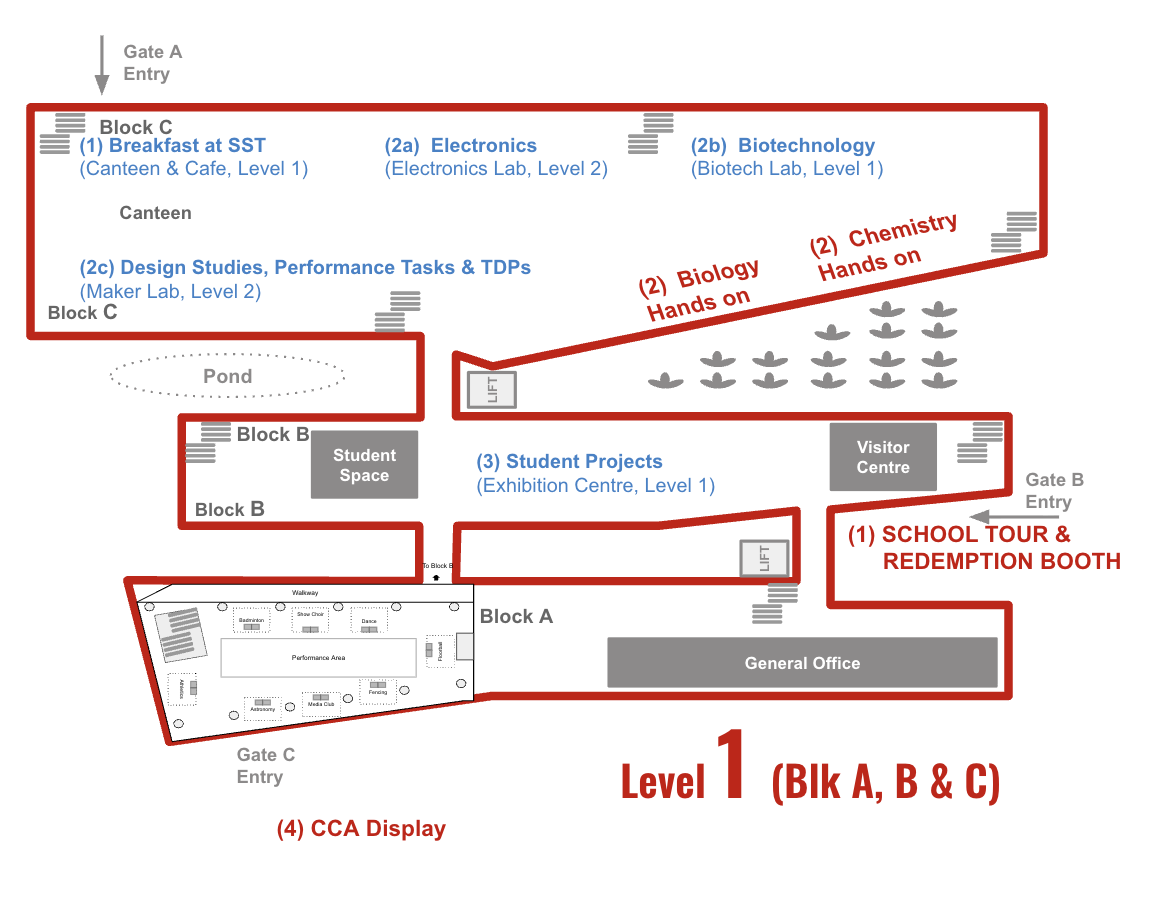
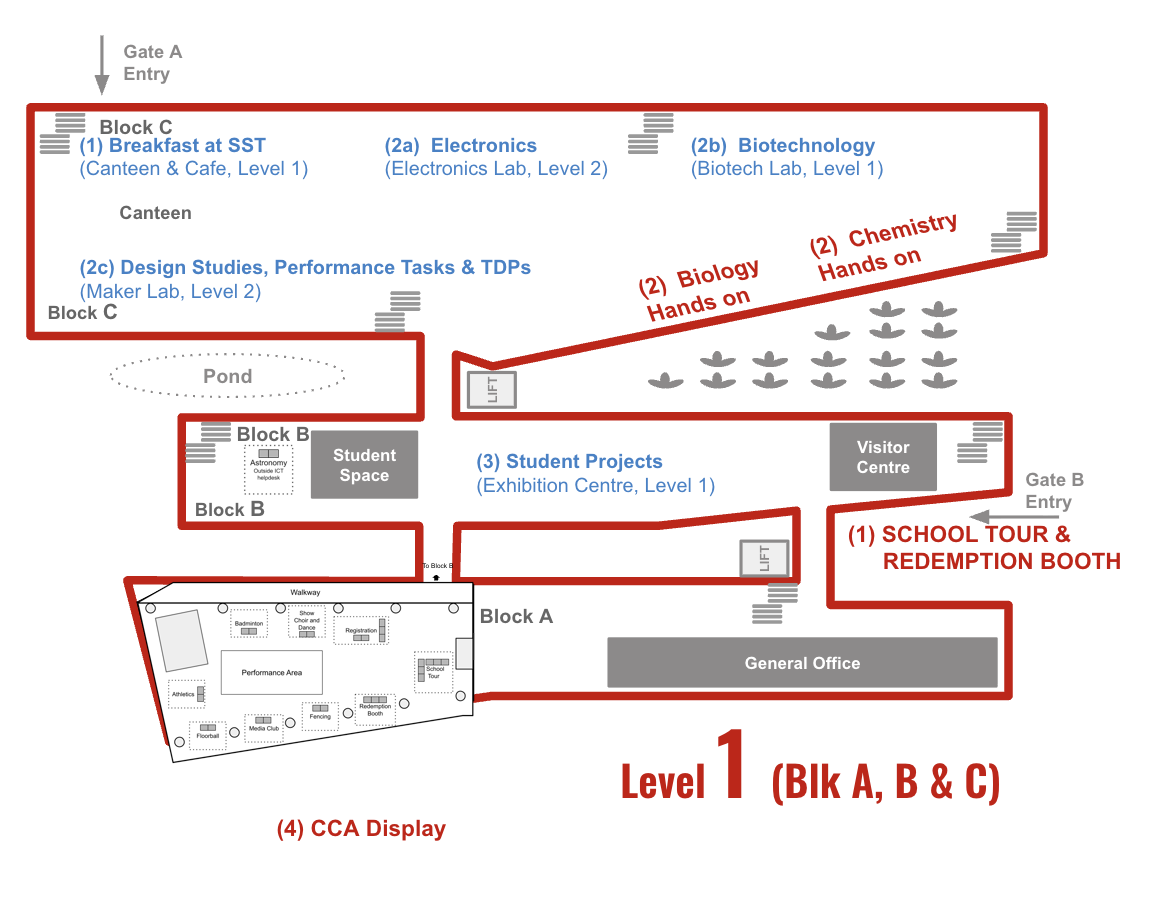
feat: update venue information and enhance GraphCanvas interactivity with click popup

Changed region(s): [[0.1237, 0.6114, 0.4021, 0.8559], [0.2165, 0.4891, 0.2474, 0.5502]]

diff --git a/src/components/GraphCanvas.tsx b/src/components/GraphCanvas.tsx
@@ -1,6 +1,7 @@
 "use client";
 
-import { useEffect, useMemo, useRef } from "react";
+import { useEffect, useMemo, useRef, useState } from "react";
+import { createPortal } from "react-dom";
 
 export type NodeId = string;
 
@@ -45,6 +46,12 @@ export function GraphCanvas(props: GraphCanvasProps) {
   const canvasRef = useRef<HTMLCanvasElement | null>(null);
   const canvasWidth = width ?? 800;
   const canvasHeight = height ?? 600;
+  const clickMeRectRef = useRef<{ x: number; y: number; w: number; h: number } | null>(null);
+  const [showClickMePopup, setShowClickMePopup] = useState(false);
+  const [mounted, setMounted] = useState(false);
+  useEffect(() => {
+    setMounted(true);
+  }, []);
 
   const layoutNodes = useMemo(() => {
     const ordered: Node[] = [];
@@ -157,7 +164,7 @@ export function GraphCanvas(props: GraphCanvasProps) {
 
         // Solid path
         ctx.strokeStyle = "#2563eb";
-        ctx.lineWidth = 3.5;
+        ctx.lineWidth = 6;
         ctx.beginPath();
         for (const [fx, fy, tx, ty] of segments) {
           ctx.moveTo(fx, fy);
@@ -166,10 +173,10 @@ export function GraphCanvas(props: GraphCanvasProps) {
         ctx.stroke();
 
         // Directional arrows — white chevrons at 60% along each segment
-        const arrowSize = 11;
+        const arrowSize = 18;
         const arrowAngle = Math.PI / 5;
         ctx.strokeStyle = "#ffffff";
-        ctx.lineWidth = 2.5;
+        ctx.lineWidth = 4;
         for (const [fx, fy, tx, ty] of segments) {
           const segLen = Math.sqrt((tx - fx) ** 2 + (ty - fy) ** 2);
           if (segLen < 20) continue;
@@ -256,6 +263,51 @@ export function GraphCanvas(props: GraphCanvasProps) {
         if (startNodeId) drawPin(startNodeId, true);
         if (endNodeId) drawPin(endNodeId, false);
       }
+
+      // "Click me" button at node 24 (Level 1 only)
+      const node24 = nodeMap.get("24");
+      if (node24 && Number.isFinite(node24.x) && Number.isFinite(node24.y)) {
+        const nx = sx(node24.x as number);
+        const ny = sy(node24.y as number);
+        ctx.font = "bold 13px sans-serif";
+        const label = "Click me for layout";
+        const textW = ctx.measureText(label).width;
+        const padX = 12;
+        const w = textW + padX * 2;
+        const h = 28;
+        const x = nx - w / 2;
+        const y = ny - h - 14;
+
+        clickMeRectRef.current = { x, y, w, h };
+
+        ctx.shadowColor = "rgba(0,0,0,0.25)";
+        ctx.shadowBlur = 8;
+        ctx.shadowOffsetY = 2;
+        ctx.fillStyle = "#f59e0b";
+        ctx.beginPath();
+        ctx.roundRect(x, y, w, h, 14);
+        ctx.fill();
+        ctx.shadowBlur = 0;
+        ctx.shadowOffsetY = 0;
+        ctx.shadowColor = "transparent";
+
+        ctx.fillStyle = "#ffffff";
+        ctx.textBaseline = "middle";
+        ctx.textAlign = "center";
+        ctx.fillText(label, nx, y + h / 2);
+        ctx.textAlign = "left";
+
+        // Pointer tail down to node
+        ctx.fillStyle = "#f59e0b";
+        ctx.beginPath();
+        ctx.moveTo(nx - 6, y + h);
+        ctx.lineTo(nx + 6, y + h);
+        ctx.lineTo(nx, y + h + 6);
+        ctx.closePath();
+        ctx.fill();
+      } else {
+        clickMeRectRef.current = null;
+      }
     };
 
     if (!mapSrc) {
@@ -271,12 +323,115 @@ export function GraphCanvas(props: GraphCanvasProps) {
     };
   }, [edges, layoutNodes, nodeMap, pathNodeSet, shortestPath, mapSrc, canvasWidth, canvasHeight, startNodeId, endNodeId, showAllEdges, showAllNodes]);
 
+  const handleCanvasClick = (e: React.MouseEvent<HTMLCanvasElement>) => {
+    const rect = clickMeRectRef.current;
+    const canvas = canvasRef.current;
+    if (!rect || !canvas) return;
+    const bounds = canvas.getBoundingClientRect();
+    const cx = ((e.clientX - bounds.left) / bounds.width) * canvas.width;
+    const cy = ((e.clientY - bounds.top) / bounds.height) * canvas.height;
+    if (cx >= rect.x && cx <= rect.x + rect.w && cy >= rect.y && cy <= rect.y + rect.h) {
+      setShowClickMePopup(true);
+    }
+  };
+
   return (
-    <canvas
-      ref={canvasRef}
-      width={canvasWidth}
-      height={canvasHeight}
-      style={{ border: "1px solid #e5e7eb" }}
-    />
+    <>
+      <canvas
+        ref={canvasRef}
+        width={canvasWidth}
+        height={canvasHeight}
+        onClick={handleCanvasClick}
+        style={{ border: "1px solid #e5e7eb", cursor: "pointer" }}
+      />
+      {showClickMePopup && mounted && createPortal(
+        <div
+          onClick={() => setShowClickMePopup(false)}
+          style={{
+            position: "fixed",
+            inset: 0,
+            background: "rgba(15, 23, 42, 0.55)",
+            backdropFilter: "blur(14px) saturate(160%)",
+            WebkitBackdropFilter: "blur(14px) saturate(160%)",
+            display: "flex",
+            alignItems: "center",
+            justifyContent: "center",
+            zIndex: 1000,
+            cursor: "zoom-out",
+            padding: 24,
+            animation: "clickMeFadeIn 220ms ease-out",
+          }}
+        >
+          <style>{`
+            @keyframes clickMeFadeIn {
+              from { opacity: 0; }
+              to { opacity: 1; }
+            }
+            @keyframes clickMePopIn {
+              from { opacity: 0; transform: scale(0.94) translateY(8px); }
+              to { opacity: 1; transform: scale(1) translateY(0); }
+            }
+          `}</style>
+          <div
+            onClick={(e) => e.stopPropagation()}
+            style={{
+              position: "relative",
+              padding: 14,
+              borderRadius: 28,
+              background: "rgba(255, 255, 255, 0.18)",
+              backdropFilter: "blur(24px) saturate(180%)",
+              WebkitBackdropFilter: "blur(24px) saturate(180%)",
+              border: "1px solid rgba(255, 255, 255, 0.35)",
+              boxShadow:
+                "0 24px 60px rgba(0, 0, 0, 0.35), inset 0 1px 0 rgba(255, 255, 255, 0.5)",
+              maxWidth: "92vw",
+              maxHeight: "92vh",
+              animation: "clickMePopIn 280ms cubic-bezier(0.22, 1, 0.36, 1)",
+              cursor: "default",
+            }}
+          >
+            <button
+              onClick={() => setShowClickMePopup(false)}
+              aria-label="Close"
+              style={{
+                position: "absolute",
+                top: -10,
+                right: -10,
+                width: 36,
+                height: 36,
+                borderRadius: "50%",
+                border: "1px solid rgba(255,255,255,0.5)",
+                background: "rgba(255,255,255,0.85)",
+                backdropFilter: "blur(10px)",
+                color: "#0f172a",
+                fontSize: 18,
+                fontWeight: 600,
+                cursor: "pointer",
+                display: "flex",
+                alignItems: "center",
+                justifyContent: "center",
+                boxShadow: "0 6px 20px rgba(0,0,0,0.25)",
+                lineHeight: 1,
+                padding: 0,
+              }}
+            >
+              ×
+            </button>
+            <img
+              src="/layout.jpg"
+              alt="Layout"
+              style={{
+                display: "block",
+                maxWidth: "calc(92vw - 28px)",
+                maxHeight: "calc(92vh - 28px)",
+                borderRadius: 18,
+                boxShadow: "0 8px 24px rgba(0, 0, 0, 0.25)",
+              }}
+            />
+          </div>
+        </div>,
+        document.body
+      )}
+    </>
   );
 }

diff --git a/src/app/page.tsx b/src/app/page.tsx
@@ -44,7 +44,7 @@ export default function Home() {
   const [isEventsPopupOpen, setIsEventsPopupOpen] = useState(false);
   const [isSchedulePopupOpen, setIsSchedulePopupOpen] = useState(false);
   const [currentTime, setCurrentTime] = useState(getSGTTime);
-  const [navFrom, setNavFrom] = useState(venueNames[0] ?? '');
+  const [navFrom, setNavFrom] = useState(venueNames[7] ?? '');
   const [navTo, setNavTo] = useState(venueNames[1] ?? '');
 
   const navResult = useMemo(() => {
@@ -347,7 +347,7 @@ export default function Home() {
           </div>
         </div>
         <p className="credits">
-          Made by Hong Yu & Leung Yin of S304 NOT ASSOCIATED WITH SSTINC
+          Made by Hong Yu & Leung Yin of S304
         </p>
       </main>
       {isEventsPopupOpen && (

diff --git a/src/app/graphData.ts b/src/app/graphData.ts
@@ -91,7 +91,13 @@ L3_B,43,10
 48,L3_16,5
 L3_19,46,5
 L4_4,L5_4,100
-L2_B,32,10`;
+L2_B,32,10
+101,L2_13,5
+101,32,15
+101,L2_19,17
+101,L2_33,8
+44,45,7
+`;
 
 export const edges: Edge[] = edgeCsv
   .trim()
@@ -159,13 +165,14 @@ L1_13 973,173
 L2_7 664,510
 L2_13 1303,300
 L2_16 161,140
-L2_B 586,372
-L2_19 767,138
+L2_B 500,372
+L2_19 740,138
 32 825,356
 33 1204,132
 29 260,372
 30 368,134
 31 563,145
+101 1170,300
     `),
     shortestPath: [] as NodeId[],
   },
@@ -175,7 +182,7 @@ L2_19 767,138
 L3_7 799,518
 L3_13 1278,277
 L3_16 233,148
-L3_B 701,338
+L3_B 640,338
 L3_19 855,148
 44 407,144
 45 665,153

diff --git a/src/app/venueNodes.ts b/src/app/venueNodes.ts
@@ -10,7 +10,7 @@ export const venueToNode: Record<string, string> = {
   "LO2": "44",
   "ADMT Studio": "32",
   "Maker Lab": "29",
-  "Physics Lab 2": "32",
+  "Physics Lab 2": "101",
   "Chem Lab 2": "12",
   "Biotech Lab 1": "10",
   "Engineering Lab": "33",
@@ -19,6 +19,7 @@ export const venueToNode: Record<string, string> = {
   "SST Inc": "46",
   "Robotics Room": "43",
   "MPR3": "45",
+  "Outside ICT Helpdesk": "21"
 };
 
 // Reverse mapping: node ID -> venue name

diff --git a/CLAUDE.md b/CLAUDE.md
@@ -1,0 +1,49 @@
+# CLAUDE.md
+
+This file provides guidance to Claude Code (claude.ai/code) when working with code in this repository.
+
+## Commands
+
+```bash
+npm run dev      # Start dev server (Next.js, localhost:3000)
+npm run build    # Production build
+npm run lint     # ESLint via Next.js
+npx tsc --noEmit # Type-check without emitting (run after changes)
+```
+
+There are no automated tests.
+
+## Architecture
+
+Next.js 15 App Router app with a single main page (`src/app/page.tsx`). All UI is client-side (`'use client'`).
+
+### Navigation / Pathfinding
+
+The core feature is an in-building navigation system:
+
+- **`src/app/graphData.ts`** — All graph data (nodes, edges as CSV), Dijkstra implementation, and `levelData` (per-floor node coordinates + floor plan image paths). The graph has 5 floors; inter-level edges (weight 100) connect staircase/elevator nodes named with the pattern `LX_Y` (e.g. `L1_7 ↔ L2_7`).
+- **`src/app/venueNodes.ts`** — Maps human-readable venue names → node IDs. Not every graph node is a venue.
+- **`src/components/GraphCanvas.tsx`** — Canvas renderer. Draws the floor plan image, a path with glow + directional arrow chevrons, and Start/End pin markers. Takes `shortestPath: NodeId[]` in traversal order; uses this order directly for arrow direction (not the edge list).
+- **`src/app/page.tsx`** — Orchestrates navigation state. Key memos:
+  - `levelNodesMap` — stable Set<NodeId> per level, computed once on mount
+  - `levelEdgesMap` — pre-filtered edges per level, stable after mount
+  - `connectorNodes` — nodes that appear in cross-level edges; used to skip pure-transit floors in the map display
+  - `navLevels` — ordered list of levels the path touches, with transit-only levels filtered out
+
+### UI Structure
+
+The page has a collapsible header (glassmorphism capsule, `border-radius: 35px`) that expands to full-screen for navigation. When collapsed it shows a "Get Directions" CTA button. The rest of the page has a carousel, a quick-look schedule widget, and popup modals for Booths and Schedule.
+
+All styling is in `src/app/globals.css` (one large file, no CSS modules). The design language is glassmorphism: `background: rgba(255,255,255,0.15)`, `backdrop-filter: blur(20px) saturate(180%)`, `border-radius: 35px`, `box-shadow: 0 4px 30px rgba(0,0,0,0.1), inset 0 1px 0 rgba(255,255,255,0.4)`. Match this for any new interactive capsule elements.
+
+### Data Files
+
+- `src/app/booths.json` — booth list with `{ id, name, venue, description, image, events? }`
+- `src/app/schedule.json` — event list with `{ id, event, time, venue }` where `time` is `"HHMM"` (SGT)
+- `public/Level*.png` / `*.avif` — floor plan images and booth images
+
+### Key Constraints
+
+- Venue names in `booths.json` don't all have entries in `venueToNode` — always guard with `venue in venueToNode` before treating a booth as navigable.
+- The `getSGTTime` / `parseTime` / `formatTime` helpers in `page.tsx` are module-level functions — don't inline them or add duplicates.
+- Canvas drawing in `GraphCanvas` uses the `shortestPath` array order for arrow direction. Do not substitute the edge list for this purpose.
